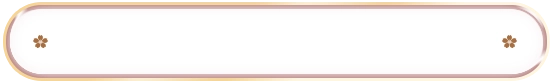
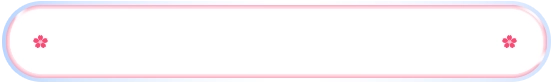
page 3

Changed region(s): [[0.0, 0.0, 1.0, 0.988], [0.8915, 0.4337, 0.953, 0.5783], [0.0615, 0.4337, 0.0922, 0.5783]]

diff --git a/css/form.css b/css/form.css
@@ -28,7 +28,7 @@
     padding: clamp(45px, 7vw, 90px) 15px clamp(32px, 5vw, 70px);
     background: url("../img/form/bg-form-section-pc.webp") center / cover no-repeat;
     overflow: hidden;
-    color: #813412;
+    color: #1b3a73;
 }
 
 .survey-section--mid {
@@ -52,7 +52,7 @@
     --panel-width: min(48.4vw, 929px);
     width: var(--panel-width);
     min-width: 610px;
-    aspect-ratio: 929 / 956;
+    aspect-ratio: 927 / 953;
     position: relative;
     padding: 4em 3.5em;
     background: url("../img/form/bg-box.webp") center / 100% 100% no-repeat;
@@ -63,7 +63,7 @@
     width: min(63vw, 1224px);
     min-width: 600px;
     min-height: 0;
-    aspect-ratio: 1224 / 1514;
+    aspect-ratio: 1222 / 1511;
     padding: 3.4em 1em 1.7em 3.6em;
     background-image: url("../img/form/bg-box-mid.webp");
 }
@@ -71,7 +71,7 @@
 .survey-panel--large {
     width: min(69.5vw, 810px);
     min-width: 550px;
-    aspect-ratio: 1345 / 2067;
+    aspect-ratio: 1343 / 2064;
     padding: 3.3em 4.4em 1.9em;
     background-image: url("../img/form/bg-box-large.webp");
     font-size: 1em;
@@ -94,7 +94,7 @@
     padding-top: 0.08em;
     transform: translate(-50%, -50%);
     background: url("../img/form/bg-title-form.webp") center / contain no-repeat;
-    color: #91411e;
+    color: #ea2b6d;
     font-size: 1.85em;
     font-weight: 600;
     white-space: nowrap;
@@ -113,7 +113,7 @@
     align-items: flex-start;
     gap: 0.4em;
     margin-bottom: 0.5em;
-    color: #78300f;
+    color: #14306a;
     font-size: 1.08em;
     font-weight: 650;
     line-height: 1.2;
@@ -139,8 +139,9 @@
     align-items: flex-start;
     gap: 0.85em;
     margin: 0 0 0.4em 1.45em;
-    color: #813412;
+    color: #1b3a73;
     line-height: 1.25;
+    cursor: pointer;
 }
 
 .survey-choice > input[type="radio"],
@@ -154,8 +155,9 @@
     appearance: none;
     border: 0;
     border-radius: 50%;
-    background: #fff;
-    box-shadow: 0 0 0 1px rgba(117, 65, 31, 0.02);
+    background: url("../img/form/icon-checkpoint.webp") center / 100% 100% no-repeat;
+    box-shadow: none;
+    cursor: pointer;
 }
 
 .survey-choice > span {
@@ -168,11 +170,11 @@
 }
 
 .survey-choice > input:checked {
-    background: #f12613 url("../img/form/mark-stick.png") center / 100% 100% no-repeat;
+    background-image: url("../img/form/icon-mark.webp");
 }
 
 .survey-choice > input:focus-visible {
-    outline: 2px solid #a7542d;
+    outline: 2px solid #ea2b6d;
     outline-offset: 2px;
 }
 
@@ -195,9 +197,8 @@
     height: 1.15em;
     padding: 0 0.3em;
     border: 0;
-    border-bottom: 1px solid #bb8560;
     border-radius: 0;
-    background: transparent;
+    background: transparent url("../img/form/linehong.webp") left bottom / 100% 2px no-repeat;
     color: inherit;
     font: inherit;
 }
@@ -241,7 +242,7 @@
 }
 
 .survey-button:focus-visible {
-    outline: 3px solid rgba(126, 45, 13, 0.35);
+    outline: 3px solid rgba(234, 43, 109, 0.35);
     outline-offset: 3px;
 }
 
@@ -297,45 +298,29 @@
         min-height: 100svh;
         align-items: flex-start;
         padding: 6em 4em;
-        background-image: url("../img/form/bg-form-section-mobile.webp");
-        background-position: center;
+        background-position: center bottom;
+        background-size: cover;
     }
 
-    .survey-section--mid {
-        background-image: url("../img/form/bg-form-section-mobile-mid.webp");
-    }
-
-    .survey-section--large {
-        background-image: url("../img/form/bg-form-section-mobile-large.webp");
-    }
-
+    /* Winter paper on mobile: 9-slice of giay.webp keeps the sakura corner
+       and bottom snow undistorted while the sheet grows with its content. */
     .survey-panel,
+    .survey-panel--intro,
     .survey-panel--visited,
     .survey-panel--large {
         width: min(83.1vw, 600px);
         min-width: 0;
         min-height: 0;
-        aspect-ratio: 911 / 1800;
-        padding: 3.65em 2em 2.5em;
-        background: url("../img/form/bg-box-mobile.webp") center / 100% 100% no-repeat;
+        aspect-ratio: auto;
+        padding: 3.65em 2em 4em;
+        background: none;
+        border-style: solid;
+        border-width: 0;
+        border-image-source: url("../img/form/bg-box.webp");
+        border-image-slice: 140 180 110 30 fill;
+        border-image-width: min(12.5vw, 90px) min(16vw, 116px) min(9.8vw, 71px) min(2.7vw, 20px);
+        border-image-repeat: stretch;
         font-size: 1em;
-    }
-
-    .survey-panel--intro {
-        min-height: 0;
-        aspect-ratio: 911 / 1800;
-    }
-
-    .survey-panel--visited {
-        min-height: 0;
-        aspect-ratio: 932 / 2959;
-        background-image: url("../img/form/bg-box-mid-mobile.webp");
-    }
-
-    .survey-panel--large {
-        min-height: 0;
-        aspect-ratio: 932 / 4021;
-        background-image: url("../img/form/bg-box-large-mobile.webp");
     }
 
     .survey-title {

diff --git a/page3.html b/page3.html
@@ -7,7 +7,7 @@
     <link rel="stylesheet" href="css/default.css?v=20260803-1">
     <link rel="stylesheet" href="css/style.css?v=20260803-7">
     <link rel="stylesheet" href="css/responsive.css?v=20260803-1">
-    <link rel="stylesheet" href="css/form.css?v=20260803-2">
+    <link rel="stylesheet" href="css/form.css?v=20261013-2">
 </head>
 <body class="survey-page">
     <header class="header">
@@ -110,19 +110,19 @@
                             </span>
                         </legend>
                         <label class="survey-choice">
-                            <input type="radio" name="travel_experience" value="visited-return" data-survey-target="3-2-b" required>
+                            <input type="radio" name="travel_experience" value="visited-return" data-survey-target="3-2-b" data-travel-status="3-2-b" required>
                             <span>Đã từng đi và muốn đi lại</span>
                         </label>
                         <label class="survey-choice">
-                            <input type="radio" name="travel_experience" value="visited-no-plan" data-survey-target="3-2-b">
+                            <input type="radio" name="travel_experience" value="visited-no-plan" data-survey-target="3-2-b" data-travel-status="3-2-b">
                             <span>Đã từng đi nhưng hiện chưa có kế hoạch quay lại</span>
                         </label>
                         <label class="survey-choice">
-                            <input type="radio" name="travel_experience" value="not-visited-plan" data-survey-target="3-2-a">
+                            <input type="radio" name="travel_experience" value="not-visited-plan" data-survey-target="3-2-a" data-travel-status="3-2-a">
                             <span>Chưa từng đi nhưng có kế hoạch đi trong tương lai</span>
                         </label>
                         <label class="survey-choice">
-                            <input type="radio" name="travel_experience" value="not-visited-no-plan" data-survey-target="3-2-a">
+                            <input type="radio" name="travel_experience" value="not-visited-no-plan" data-survey-target="3-2-a" data-travel-status="3-2-a">
                             <span>Chưa từng đi và chưa có kế hoạch</span>
                         </label>
                     </fieldset>

diff --git a/js/form.js b/js/form.js
@@ -76,6 +76,19 @@
         });
     });
 
+    form.addEventListener('input', function (event) {
+        if (event.target && event.target.classList.contains('survey-other-input')) {
+            const choice = event.target.closest('.survey-choice');
+            if (choice) {
+                const checkable = choice.querySelector('input[type="radio"], input[type="checkbox"]');
+                if (checkable && !checkable.checked) {
+                    checkable.checked = true;
+                    checkable.dispatchEvent(new Event('change', { bubbles: true }));
+                }
+            }
+        }
+    });
+
     form.addEventListener('submit', function (event) {
         if (form.dataset.dynamic === 'true') {
             return;
